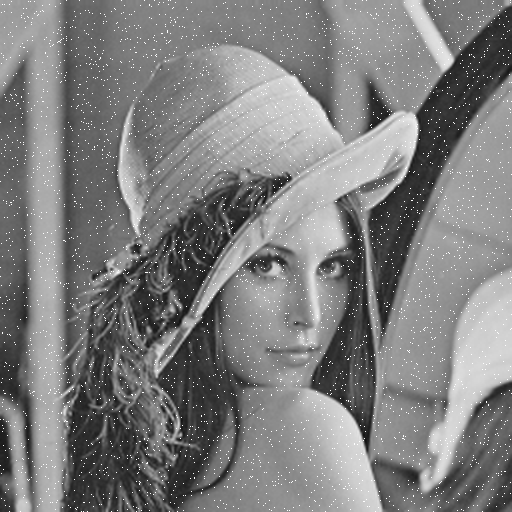
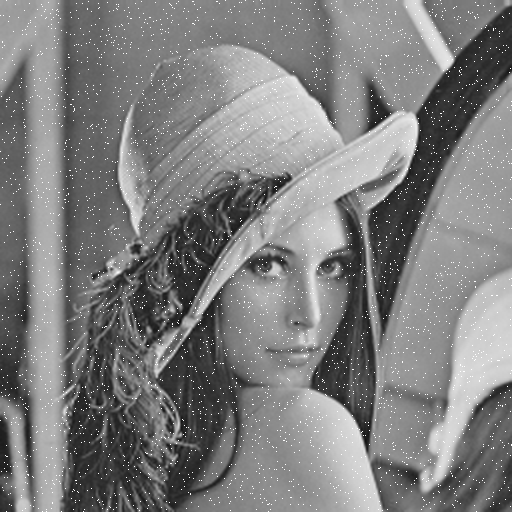
Add median filter to denoise

diff --git a/week2/denoise.cpp b/week2/denoise.cpp
@@ -11,8 +11,7 @@ void meanFilter(Mat &src, Mat &dst, int kernel)
 {
     if (!src.data) return;
     
-    //at pixel of image
-    
+    //At pixel of image
     for (int y = 0; y < src.rows; y++)
     {
         for (int x = 0; x < src.cols; x++)
@@ -20,12 +19,38 @@ void meanFilter(Mat &src, Mat &dst, int kernel)
             int sum;
             if ((y-kernel >= 0)&&(x-kernel >= 0)&&(y+kernel < src.rows)&&(x+kernel < src.cols))
             {
-                // sum pixels in the kernel size
+                // Sum pixels in the kernel size
                 for (int k1 = 0; k1 < (2*kernel+1); k1++)
                     for (int k2 = 0; k2 < (2*kernel+1); k2++)
-                        sum += src.at<uchar>(y-kernel+k1,x-kernel+k2);
+                        sum += src.at<uchar>(y-kernel+k1, x-kernel+k2);
+            // Calculate the mean value
             sum /= ((2*kernel+1)*(2*kernel+1));
             dst.at<uchar>(y,x)=sum;
+            }
+        }  
+    }
+}
+
+//Median Filter
+void medianFilter(Mat &src, Mat &dst, int kernel)
+{
+    if (!src.data) return;
+
+    //At pixel of image
+    for (int y = 0; y < src.rows; y++)
+    {
+        for (int x = 0; x < src.cols; x++)
+        {
+            int tmp[(2*kernel+1)*(2*kernel+1)];
+            if ((y-kernel >= 0)&&(x-kernel >= 0)&&(y+kernel < src.rows)&&(x+kernel < src.cols))
+            {
+                // List pixels in the kernel size
+                for (int k1 = 0; k1 < (2*kernel+1); k1++)
+                    for (int k2 = 0; k2 < (2*kernel+1); k2++)
+                        tmp[k1 * (2*kernel+1) + k2] = src.at<uchar>(y-kernel+k1, x-kernel+k2);
+            // Finde the median value
+            sort(tmp,tmp+((2*kernel+1)*(2*kernel+1)));
+            dst.at<uchar>(y, x)=tmp[((2*kernel+1)*(2*kernel+1)-1)/2];
             }
         }  
     }
@@ -54,7 +79,7 @@ int main(int argc, char** argv)
     Mat saltImage = image.clone();
     salt(saltImage, 5000);
 
-    // Using the Mean Filter
+    // Setting the kernel size
     if ( argc != 2 || (atoi(argv[1])%2) == 0 || atoi(argv[1]) > image.rows || atoi(argv[1]) > image.cols)
     {
         printf("usage: ./denoise <kernel size(3 ,5 ,7, ..., 2N+1)>\n");
@@ -62,16 +87,26 @@ int main(int argc, char** argv)
     }
     int kernel;
     kernel =  (atoi(argv[1])-1)/2;
+
+    // Mean Filter
     Mat meanImage = image.clone();
     meanFilter(saltImage, meanImage, kernel);
 
+    // Median Filter
+    Mat medianImage = image.clone();
+    medianFilter(saltImage, medianImage, kernel);
+
+    // Show images
     imshow("Original",image);
     imshow("Salt",saltImage);
     imshow("Mean",meanImage);
+    imshow("Median",medianImage);
     waitKey();
     
+    // Save images
     imwrite("../images/salt.png", saltImage);
     imwrite("../images/mean.png", meanImage);
+    imwrite("../images/median.png", medianImage);
     
     return 0;
 }

diff --git a/week2/README.md b/week2/README.md
@@ -4,7 +4,7 @@ In this week, the HWs of MSPL:
 
 * Denoise
   * Mean
-  * Meidan
+  * Median
   * Gaussion
 * Edge Detection
   * sobel
